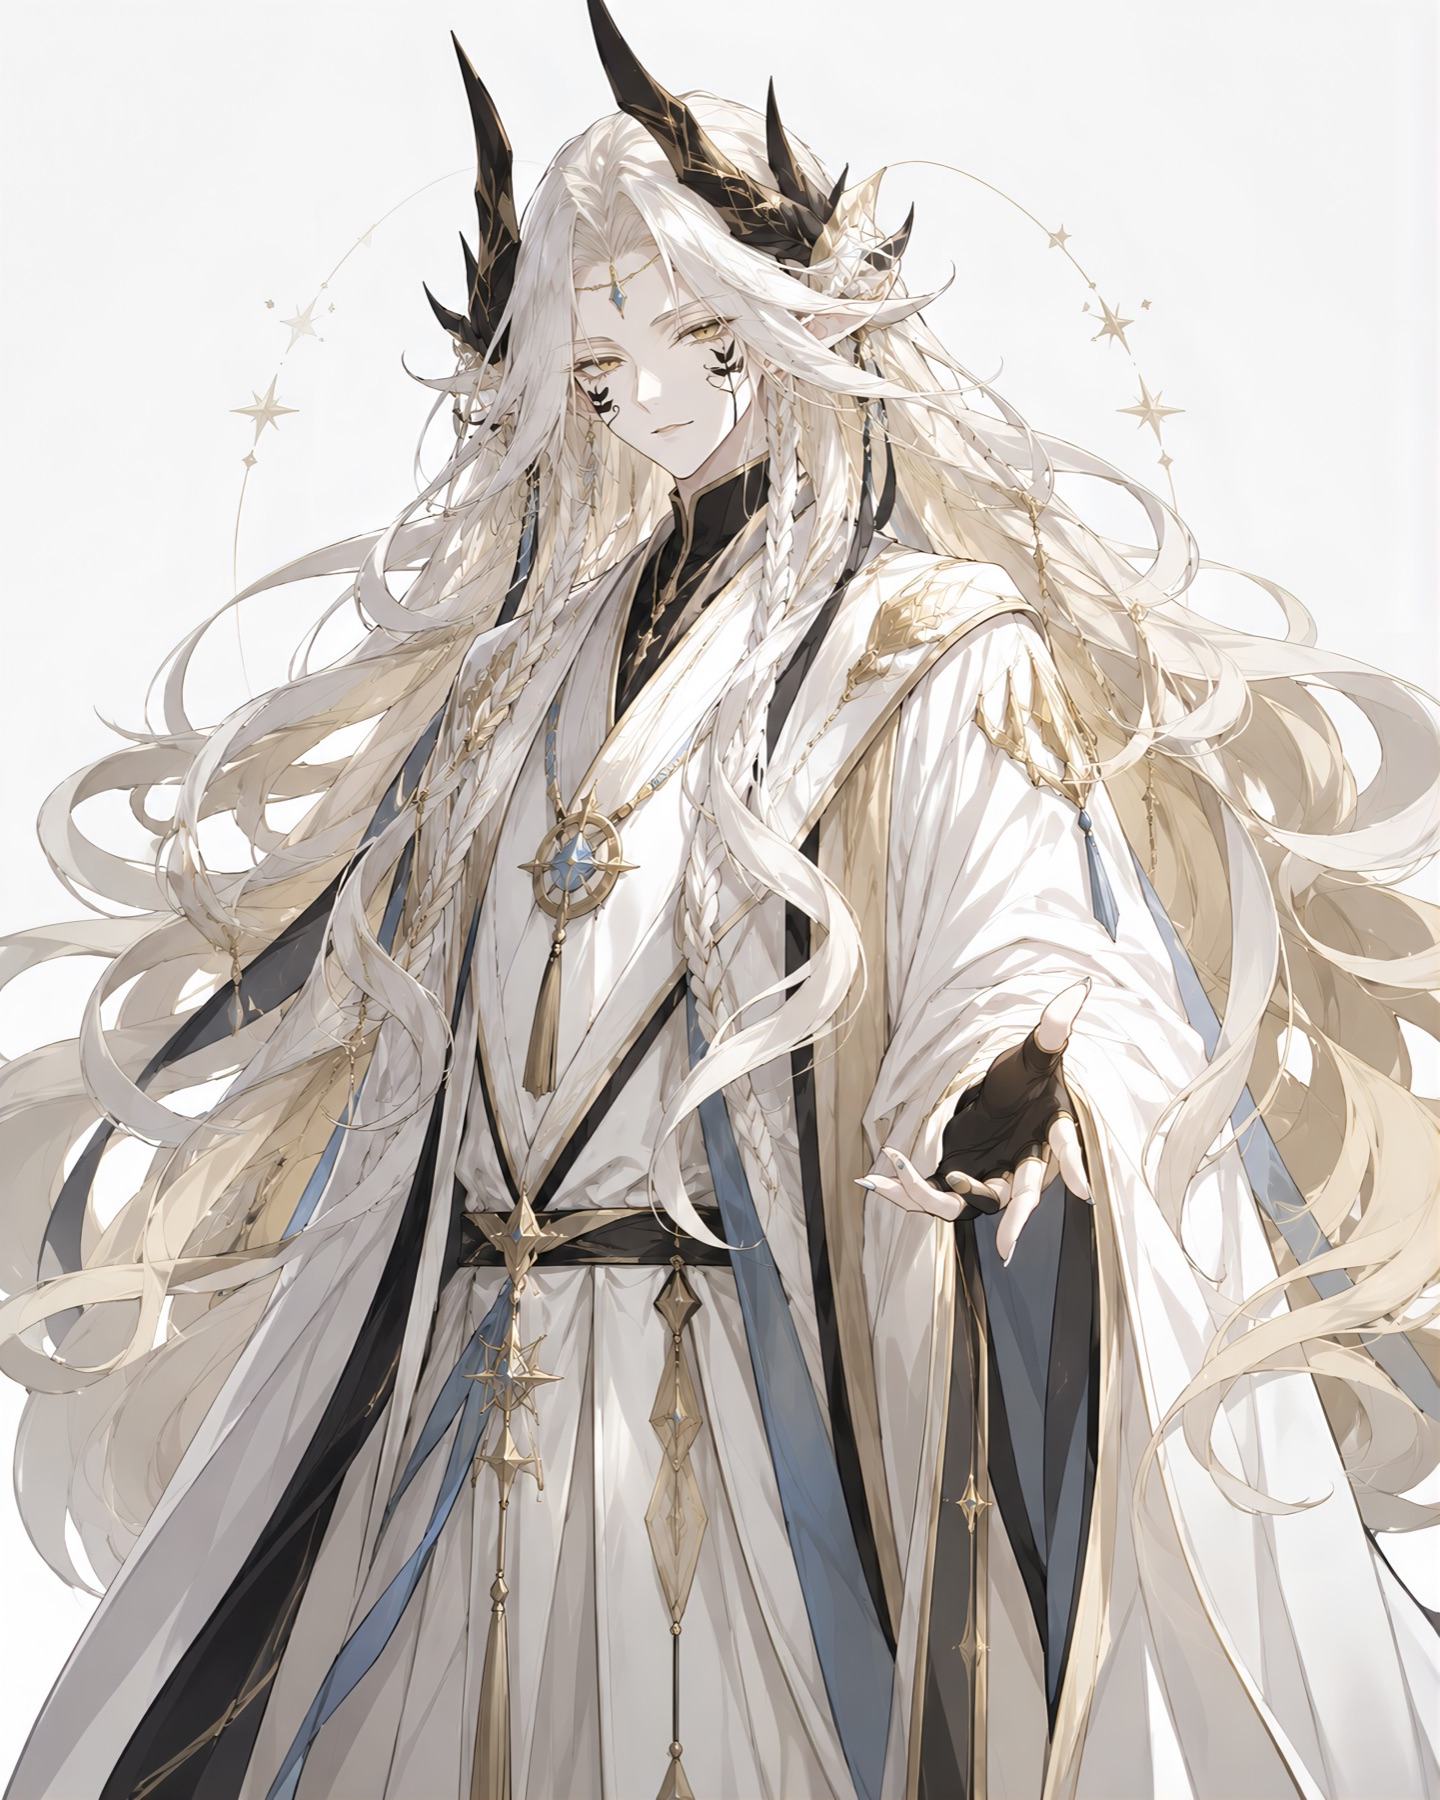
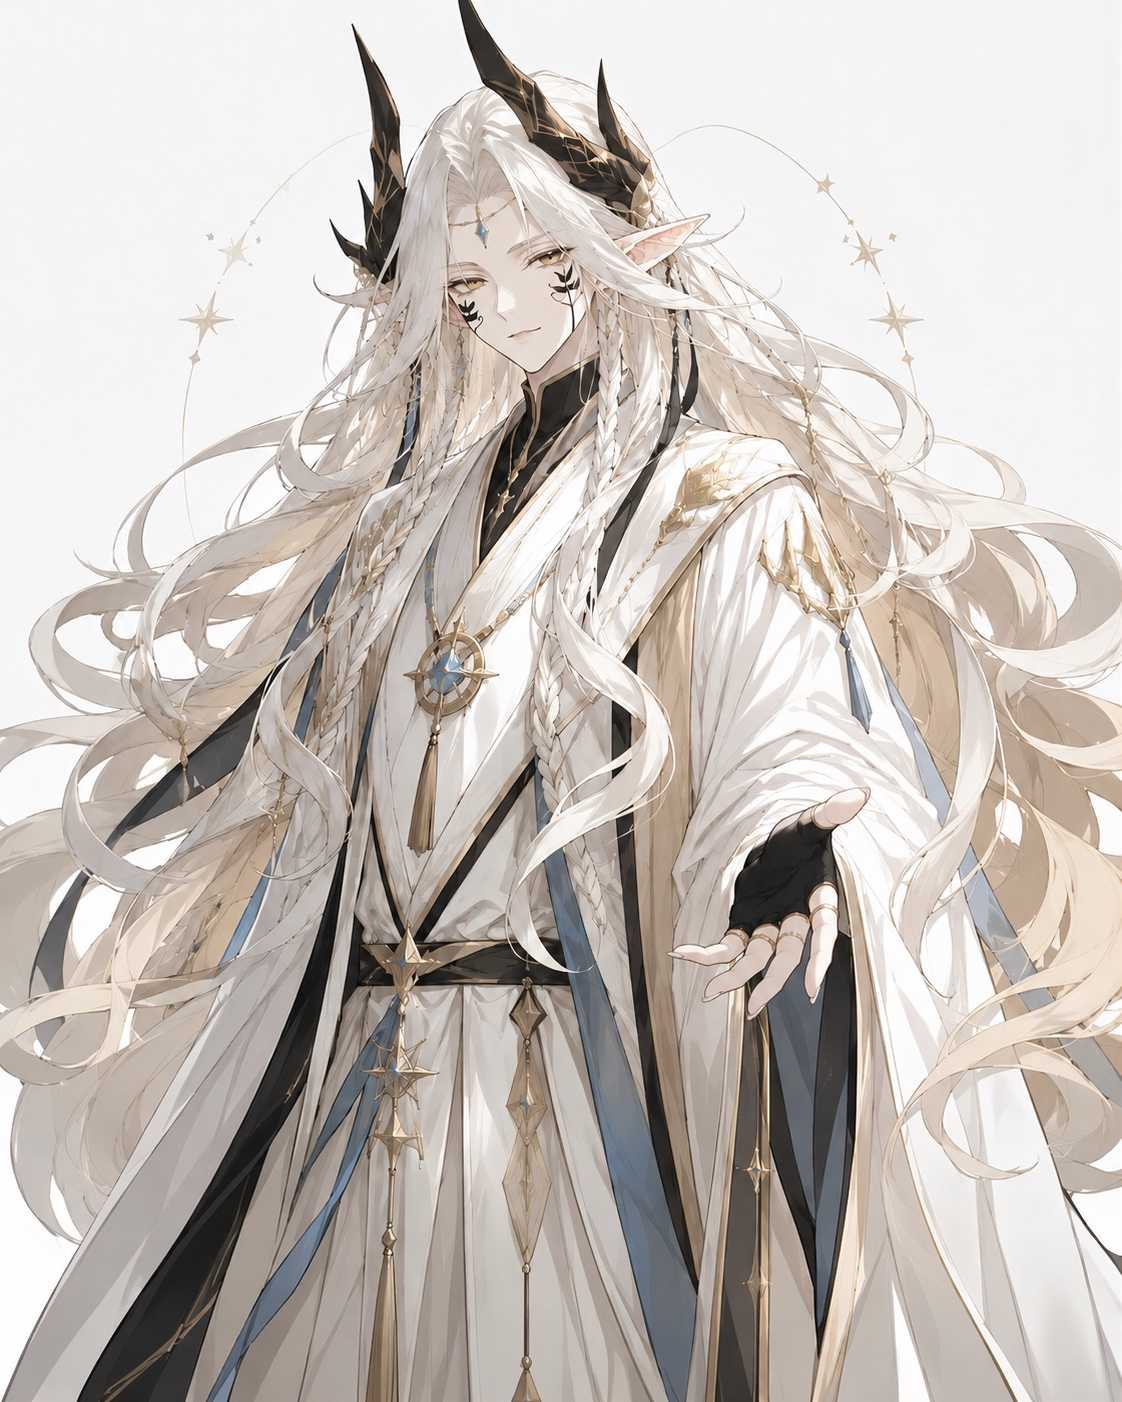
Update Zeus detail portrait and mobile episode titles

diff --git a/src/styles-world/09.css b/src/styles-world/09.css
@@ -669,16 +669,25 @@
 
   .episode-card-surface {
     display: grid;
-    grid-template-columns: minmax(118px, 0.9fr) minmax(0, 1.1fr);
+    min-height: 124px;
+    height: auto;
+    grid-template-columns: minmax(104px, 0.86fr) minmax(0, 1.14fr);
   }
 
   .episode-thumbnail {
+    z-index: 1;
+    width: 100%;
+    min-width: 0;
     height: 100%;
-    min-height: 108px;
+    min-height: 124px;
+    aspect-ratio: auto;
   }
 
   .episode-card-copy {
-    min-height: 108px;
+    position: relative;
+    z-index: 2;
+    min-width: 0;
+    min-height: 124px;
     padding: 14px 13px 13px;
   }
 
@@ -687,6 +696,12 @@
   }
 
   .episode-card-copy h4 {
+    position: relative;
+    z-index: 1;
+    display: block;
+    width: 100%;
+    max-width: 100%;
+    overflow: visible;
     font-size: clamp(15px, 5vw, 21px);
   }
 
@@ -706,6 +721,19 @@
     height: 46px;
     -webkit-backdrop-filter: blur(10px) saturate(135%);
     backdrop-filter: blur(10px) saturate(135%);
+  }
+
+  @media (max-width: 360px) {
+    .episode-card.has-pickup .episode-card-copy {
+      padding-right: 54px;
+    }
+
+    .episode-pickup-plus {
+      top: 10px;
+      right: 10px;
+      width: 42px;
+      height: 42px;
+    }
   }
 
   .episode-pickup-dialog {

diff --git a/src/lib/asset-loader.ts b/src/lib/asset-loader.ts
@@ -17,7 +17,7 @@ const KNOWN_BYTES: Record<string, number> = {
   "/manager-shuza.jpeg": 572000,
   "/manager-reemu.jpeg": 801600,
   "/manager-zeus.jpeg": 478105,
-  "/manager-zeus-detail.jpeg": 576239,
+  "/manager-zeus-detail.jpeg": 508258,
   "/manager-opus.jpeg": 342588,
   "/manager-opus-rider.jpeg": 451880,
   "/rider-saga.jpeg": 298800,
